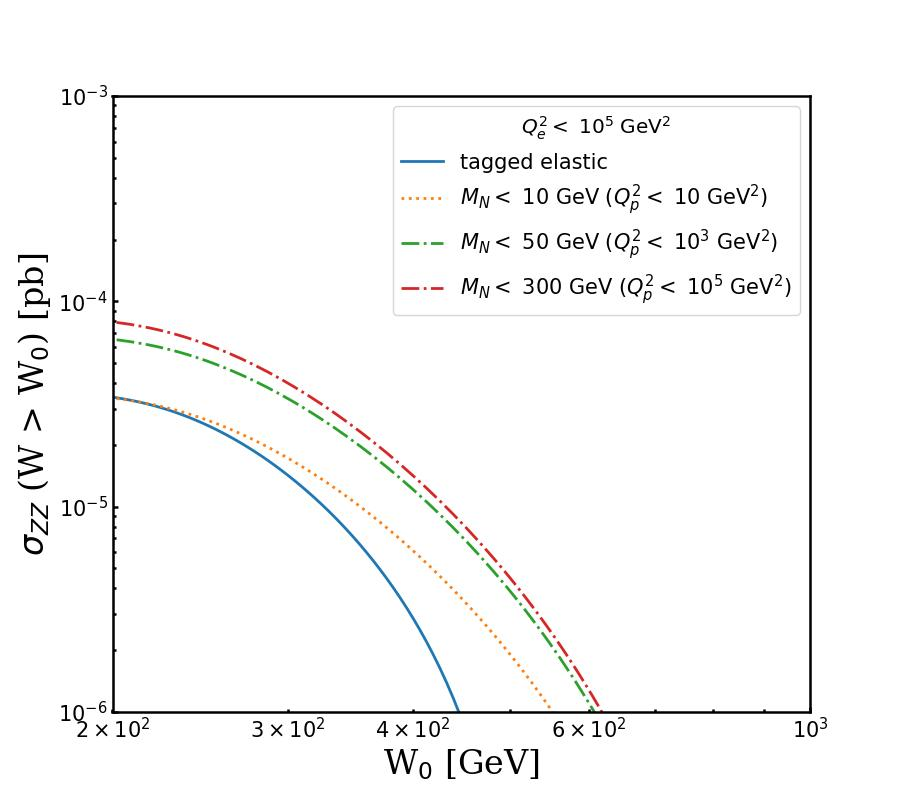
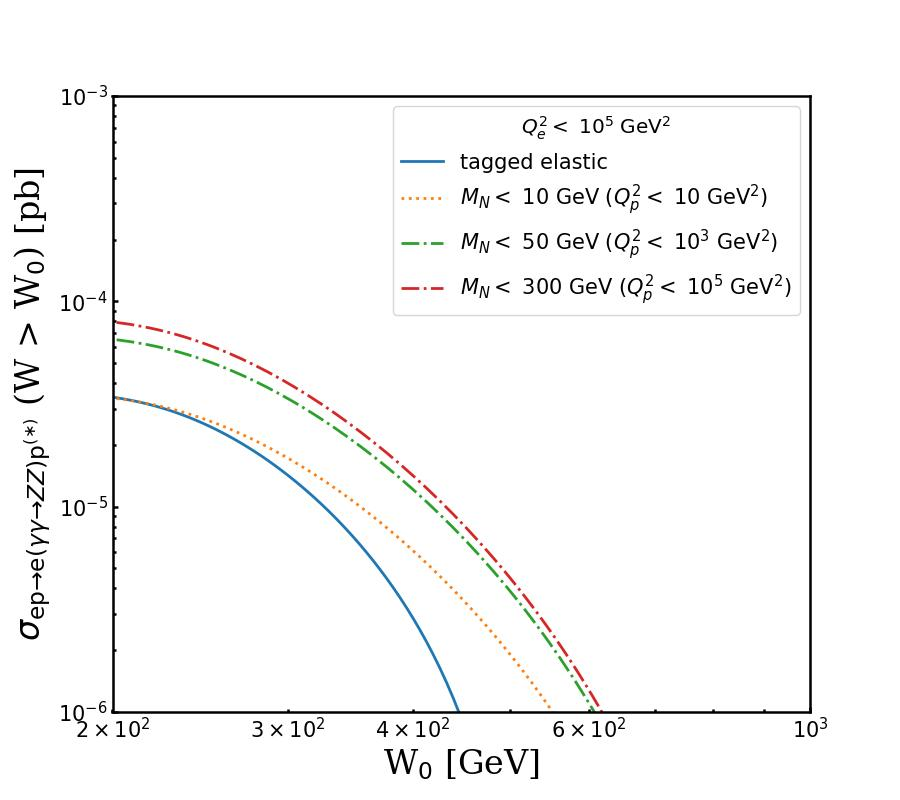
plots

Changed region(s): [[0.0, 0.2188, 0.0622, 0.8125]]

diff --git a/yy_Corrected_with_MN2_mMin2_q2min_25April_ALLM/trapint_zz_Hamzeh.py b/yy_Corrected_with_MN2_mMin2_q2min_25April_ALLM/trapint_zz_Hamzeh.py
@@ -143,8 +143,9 @@ font1 = {'family':'serif','color':'black','size':24}
 font2 = {'family':'serif','color':'black','size':24}
 
 plt.xlabel("W$_0$ [GeV]",  fontdict = font2)
-plt.ylabel("$\sigma_{ZZ}$ (W > W$_0$) [pb]", fontdict = font2)
+#plt.ylabel("$\sigma_{ZZ}$ (W > W$_0$) [pb]", fontdict = font2)
 
+plt.ylabel(r"$\sigma_{{\rm ep}\to {\rm e}(\gamma\gamma \to ZZ){\rm p}^{(\ast)}}$ (W > W$_0$) [pb]", fontdict = font2)
 
 
 plt.savefig("cs_zz_MN2_mMin2_q2min_Final_20April.pdf")
